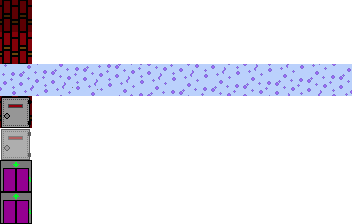
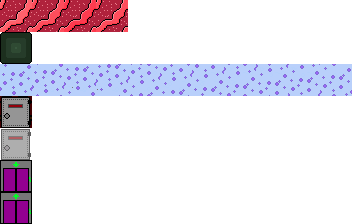
We are inside the dragon now.

Changed region(s): [[0.0, 0.0, 0.375, 0.2812], [0.0625, 0.4375, 0.0938, 0.5]]

diff --git a/lib/mid/lvl.c b/lib/mid/lvl.c
@@ -38,7 +38,7 @@ struct Tinfo {
 static Tinfo tiles[] = {
 	[' '] = {
 		.ok = true,
-		.anims = { [0] = { .row = 0, .len = 1, .delay = 1, .w = 32, .h = 32, .d = 1 } },
+		.anims = { [0] = { .row = 0, .len = 4, .delay = 400/Ticktm, .w = 32, .h = 32, .d = 400/Ticktm } },
 	},
 	['#'] = {
 		.ok = true,
